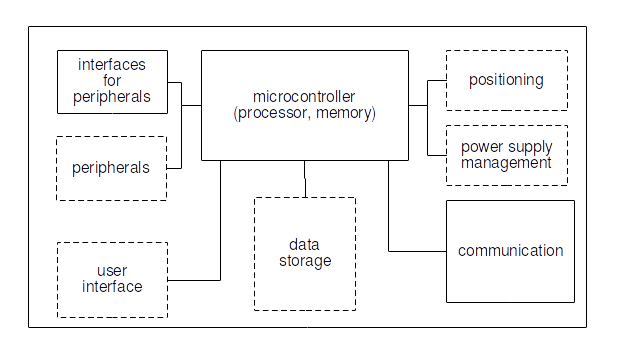
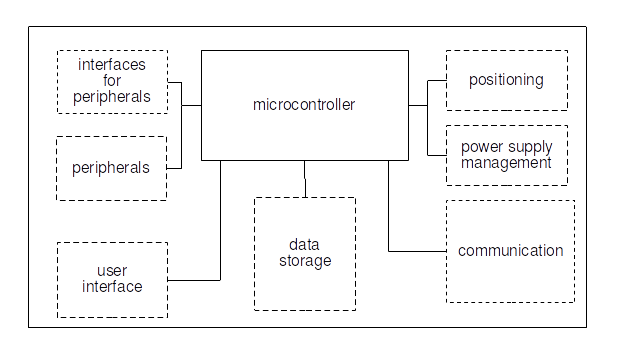
Improve device architecture diagram

Changed region(s): [[0.3654, 0.2451, 0.609, 0.337]]

diff --git a/connectedDevice.html b/connectedDevice.html
@@ -315,32 +315,33 @@
                             <div class="r-stack">
                                 <div class="fragment fade-in-then-out">
                                     <ul>
-                                        <li>microcontroller
+                                        <li>Microcontroller
                                             <ul>
-                                                <li>some peripherals (e.g. timers, watchdog, etc.)</li>
-                                                <li>interfaces (serial links, serial buses, GPIO, etc.)</li>
+                                                <li>CPU + memory</li>
+                                                <li>Some peripherals (e.g. timers, watchdog, etc.)</li>
+                                                <li>Interfaces (serial links, serial buses, GPIO, etc.)</li>
                                             </ul>
                                         </li>
-                                        <li>communication (may be hosted by the microcontroller)</li>
+                                        <li>Communication (may be hosted by the microcontroller)</li>
                                     </ul>
                                 </div>
                                 <div class="fragment fade-in-then-out">
                                     <ul>
-                                        <li>optionally:
+                                        <li>Optionally:
                                             <ul>
-                                                <li>additional interfaces</li>
-                                                <li>peripherals (sensors, etc.)</li>
-                                                <li>positioning</li>
-                                                <li>user interface</li>
-                                                <li>power supply management</li>
-                                                <li>data storage</li>
+                                                <li>Additional interfaces</li>
+                                                <li>Peripherals (sensors, etc.)</li>
+                                                <li>Positioning</li>
+                                                <li>User interface</li>
+                                                <li>Power supply management</li>
+                                                <li>Data storage</li>
                                             </ul>
                                         </li>
                                     </ul>
                                 </div>
                                 <div class="fragment fade-in_then-out">
                                     <ul>
-                                        <li>not depicted: optional, additional memory, outside of the microcontroller
+                                        <li>Not depicted: optional, additional memory, outside of the microcontroller
                                         </li>
                                     </ul>
                                 </div>
